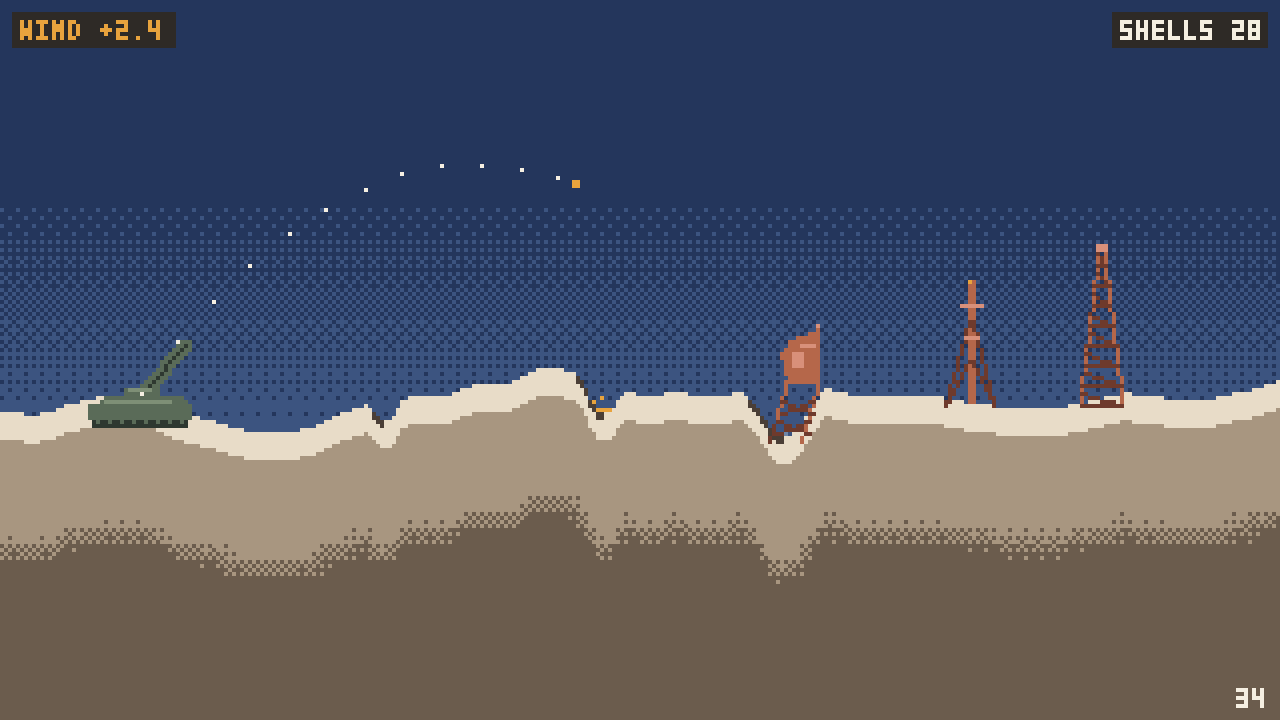
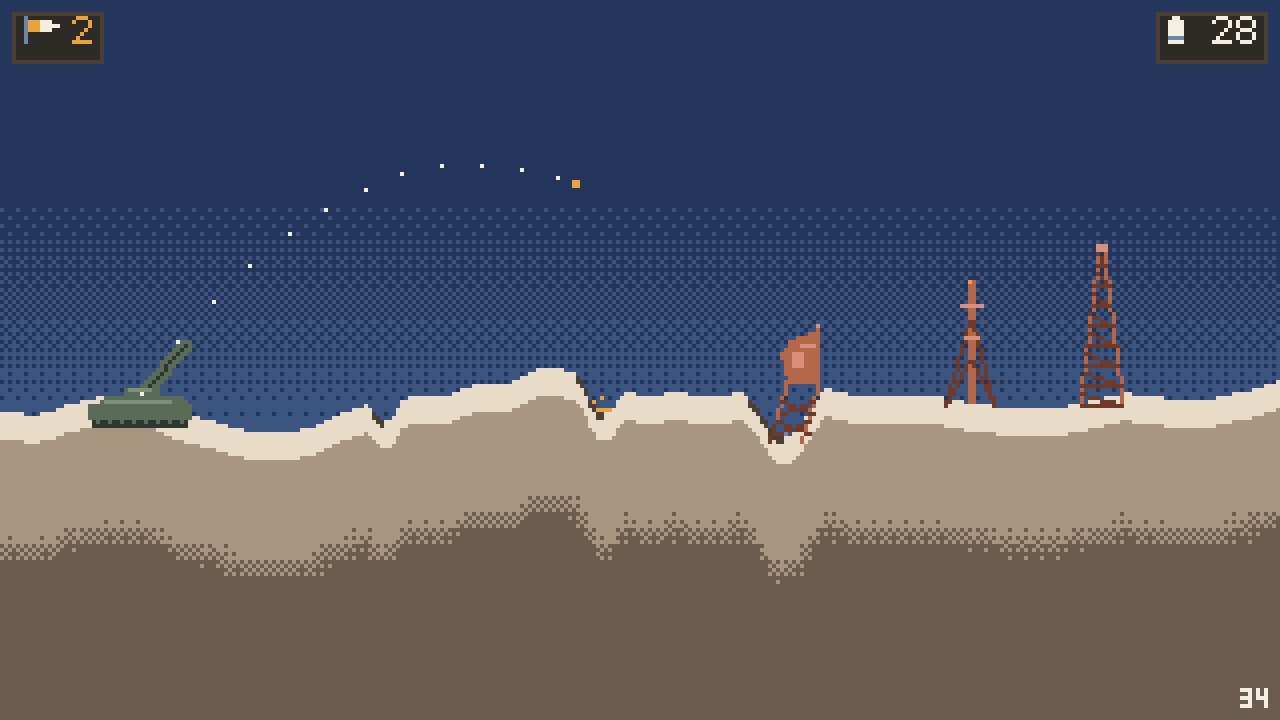
Site: new HUD in the hero images, and per-platform dev build downloads
The hero, shot GIF and scene previews now draw the game's current HUD
(windsock and strength, shell icon and count) instead of the old WIND and
SHELLS text. gen_sprites.py has one hud() that mirrors render_hud, with
the game's 5x7 digits and icons, and build_site.py uses it too.

The landing page gains a Download section with a card per platform:
Android APK, Windows x64 and ARM64, macOS, Linux. Each links straight to
the rolling dev release asset and gives the one-time sideload step for
that platform (unknown apps, SmartScreen, Gatekeeper). A small script
marks the visitor's own platform. The hero's primary button, the nav and
the fine print point at it.

Changed region(s): [[0.0, 0.0, 0.1562, 0.0917], [0.8438, 0.0, 1.0, 0.0917], [0.9688, 0.9472, 1.0, 0.9778]]

diff --git a/site/index.html b/site/index.html
@@ -30,6 +30,7 @@
     <span>SALT&nbsp;LINE</span>
   </a>
   <nav aria-label="Sections">
+    <a href="#download">Download</a>
     <a href="#what">What it is</a>
     <a href="#media">Media</a>
     <a href="#modifiers">Modifiers</a>
@@ -61,13 +62,13 @@
     </ul>
 
     <div class="cta">
-      <a class="btn primary" href="https://github.com/cascadiacollections/saltline">Get the source</a>
-      <a class="btn" href="#build">Build &amp; play</a>
+      <a class="btn primary" href="#download">Download a dev build</a>
+      <a class="btn" href="https://github.com/cascadiacollections/saltline">Get the source</a>
       <a class="btn ghost" href="https://github.com/cascadiacollections/saltline/blob/main/design/DESIGN.md">Read the design doc</a>
     </div>
 
-    <p class="fineprint">Linux · macOS · Windows &nbsp;—&nbsp; builds from source today, packaged
-      builds when the alpha stops moving.</p>
+    <p class="fineprint">Android · Windows · macOS · Linux &nbsp;—&nbsp; rolling dev builds to
+      sideload today, a proper release when the alpha stops moving.</p>
   </div>
 </section>
 
@@ -100,6 +101,51 @@
     <p class="note">This is an <strong>alpha</strong>. Things move, saves are just
       seeds, and the art is honest programmer art awaiting a hand-drawn pass.</p>
   </div>
+</section>
+
+<!-- ------------------------------------------------------------- download -->
+<section id="download" aria-labelledby="dl-h">
+  <h2 id="dl-h">Download a dev build</h2>
+  <p class="small">Rebuilt from <code>main</code> on every merge, so expect the odd rough edge.
+    The builds are unsigned, so each platform will ask you to confirm once.</p>
+  <div class="cards dl">
+    <article class="card" data-platform="android">
+      <h3>Android <span class="arch">arm64</span></h3>
+      <ol>
+        <li>Download the APK on your phone.</li>
+        <li>Open it, and let your browser install unknown apps when asked.</li>
+        <li>It installs over any earlier dev build. Touch controls are built in.</li>
+      </ol>
+      <a class="btn primary" href="https://github.com/cascadiacollections/saltline/releases/download/dev/SaltLine-android-arm64.apk">Download APK</a>
+    </article>
+    <article class="card" data-platform="windows">
+      <h3>Windows <span class="arch">x64 · ARM64</span></h3>
+      <ol>
+        <li>Unzip, then run <code>SaltLine.exe</code> (<code>SaltLine-arm64.exe</code> on ARM).</li>
+        <li>If SmartScreen stops it: <em>More info</em>, then <em>Run anyway</em>.</li>
+      </ol>
+      <a class="btn primary" href="https://github.com/cascadiacollections/saltline/releases/download/dev/SaltLine-windows-x86_64.zip">Download x64</a>
+      <a class="btn" href="https://github.com/cascadiacollections/saltline/releases/download/dev/SaltLine-windows-arm64.zip">Download ARM64</a>
+    </article>
+    <article class="card" data-platform="mac">
+      <h3>macOS <span class="arch">Apple silicon · Intel</span></h3>
+      <ol>
+        <li>Unzip and open <code>SaltLine.app</code>.</li>
+        <li>If Gatekeeper blocks it: <em>System Settings → Privacy &amp; Security → Open Anyway</em>.</li>
+      </ol>
+      <a class="btn primary" href="https://github.com/cascadiacollections/saltline/releases/download/dev/SaltLine-macos.zip">Download for macOS</a>
+    </article>
+    <article class="card" data-platform="linux">
+      <h3>Linux <span class="arch">x86_64</span></h3>
+      <ol>
+        <li>Unzip, then run <code>./SaltLine.x86_64</code>.</li>
+        <li>One self-contained binary. No Godot install needed.</li>
+      </ol>
+      <a class="btn primary" href="https://github.com/cascadiacollections/saltline/releases/download/dev/SaltLine-linux-x86_64.zip">Download for Linux</a>
+    </article>
+  </div>
+  <p class="small">Verify with <a href="https://github.com/cascadiacollections/saltline/releases/download/dev/SHA256SUMS">SHA256SUMS</a> ·
+    <a href="https://github.com/cascadiacollections/saltline/releases/tag/dev">all dev build files</a></p>
 </section>
 
 <!-- ------------------------------------------------------------- what -->
@@ -247,7 +293,7 @@ godot --path .                   # play</code></pre>
     <aside class="reqs panel">
       <h3>System requirements</h3>
       <dl>
-        <dt>OS</dt><dd>Linux, macOS, Windows</dd>
+        <dt>OS</dt><dd>Android, Linux, macOS, Windows</dd>
         <dt>Engine</dt><dd>Godot 4 (presentation only)</dd>
         <dt>Toolchain</dt><dd>Rust, stable</dd>
         <dt>Internal res</dt><dd>320×180, integer-scaled</dd>

diff --git a/site/style.css b/site/style.css
@@ -344,3 +344,13 @@ footer nav { display: grid; gap: .4rem; font-size: .88rem; }
   .hero-copy { margin-top: -3rem; }
   .keys th { width: 7.5rem; }
 }
+
+/* Download cards: steps, buttons along the bottom, the visitor's own platform lit. */
+.dl .card { display: flex; flex-direction: column; }
+.dl .card ol { margin: 0 0 1rem; padding-left: 1.2rem; flex: 1; }
+.dl .card li { margin: .3rem 0; }
+.dl .card .btn { margin: .3rem .4rem 0 0; align-self: flex-start; }
+.dl .arch { color: var(--rock); font-size: .8rem; margin-left: .3rem; }
+.dl .card.yours { border-color: var(--alert); }
+.dl .card.yours h3::after { content: "this device"; color: var(--alert); font-size: .72rem; margin-left: .5rem; }
+.dl .card li code { display: inline; margin: 0; padding: .05rem .3rem; border-left: 0; }

diff --git a/site/main.js b/site/main.js
@@ -23,6 +23,17 @@
     });
   });
 
+  // ----------------------------------------------- your platform's build
+  // A hint only: every download stays one click away whatever this guesses.
+  const ua = navigator.userAgent;
+  const platform = /Android/i.test(ua) ? "android"
+    : /Windows/i.test(ua) ? "windows"
+    // iPadOS reports itself as a Mac; a touchscreen gives it away.
+    : /Macintosh/i.test(ua) && navigator.maxTouchPoints < 2 ? "mac"
+    : /Linux/i.test(ua) ? "linux"
+    : null;
+  document.querySelector(`.dl [data-platform="${platform}"]`)?.classList.add("yours");
+
   // ------------------------------------------------------------ scrollspy
   const links = [...document.querySelectorAll('.topbar nav a[href^="#"]')];
   const targets = links

diff --git a/tools/gen_sprites.py b/tools/gen_sprites.py
@@ -141,6 +141,84 @@ def text(buf, s, x, y, c):
     return cx
 
 
+
+# The game's 5x7 digits and HUD icons (crates/salt-line-godot/src/font.rs,
+# icons.rs), so the site's HUD matches the game pixel for pixel.
+BIG = {
+    "0": "01110 10001 10001 10001 10001 10001 01110",
+    "1": "00100 01100 00100 00100 00100 00100 01110",
+    "2": "01110 10001 00001 00010 00100 01000 11111",
+    "3": "11111 00010 00100 00010 00001 10001 01110",
+    "4": "00010 00110 01010 10010 11111 00010 00010",
+    "5": "11111 10000 11110 00001 00001 10001 01110",
+    "6": "00110 01000 10000 11110 10001 10001 01110",
+    "7": "11111 00001 00010 00100 01000 01000 01000",
+    "8": "01110 10001 10001 01110 10001 10001 01110",
+    "9": "01110 10001 10001 01111 00001 00010 01100",
+    "-": "00000 00000 00000 11111 00000 00000 00000",
+    ".": "00000 00000 00000 00000 00000 01100 01100",
+}
+ICON_SHELL = ".11. 1111 1111 1111 1111 3333 1111".split()
+ICON_SOCK = ("3........ 3222111.. 322211111 3222111.. "
+             "3........ 3........ 3........").split()
+ICON_SOCK_LIMP = ("3........ 32....... 322...... 321...... "
+                  "321...... 31....... 3........").split()
+
+
+def text_big(buf, s, x, y, c):
+    for k, ch in enumerate(s):
+        for j, row in enumerate(BIG[ch].split()):
+            for i, bit in enumerate(row):
+                if bit == "1":
+                    buf.set(x + k * 6 + i, y + j, c)
+
+
+def big_width(s):
+    return len(s) * 6 - 1 if s else 0
+
+
+def icon(buf, rows, x, y, colors, flip=False):
+    w = len(rows[0])
+    for j, row in enumerate(rows):
+        for i, ch in enumerate(row):
+            if ch != ".":
+                buf.set(x + (w - 1 - i if flip else i), y + j, colors[int(ch) - 1])
+
+
+def plate(buf, x, y, w, h):
+    buf.rect(x, y, w, h, rgba("ui_bg"))
+    for i in range(w):
+        buf.set(x + i, y, rgba("shadow"))
+        buf.set(x + i, y + h - 1, rgba("shadow"))
+    for j in range(h):
+        buf.set(x, y + j, rgba("shadow"))
+        buf.set(x + w - 1, y + j, rgba("shadow"))
+
+
+def hud(buf, width, height, wind, shells, screen):
+    """The in-game HUD: windsock and strength top left, shell count top right,
+    screen index bottom right. Mirrors `render_hud` in game.rs."""
+    fg, alert, dim = rgba("ui_fg"), rgba("alert"), rgba("sky_lo")
+    wt = "--" if wind is None else f"{abs(wind):.0f}"
+    calm = not any(c in "123456789" for c in wt)
+    sock = ICON_SOCK_LIMP if calm else ICON_SOCK
+    sw = len(sock[0])
+    plate(buf, 3, 3, sw + 9 + big_width(wt), 13)
+    icon(buf, sock, 6, 4, (fg, alert, dim), flip=(not calm and wind < 0))
+    text_big(buf, wt, 6 + sw + 3, 4, alert)
+
+    st = str(shells)
+    iw = len(ICON_SHELL[0])
+    pw = iw + 13 + big_width(st)
+    px = width - pw - 3
+    plate(buf, px, 3, pw, 13)
+    icon(buf, ICON_SHELL, px + 3, 4, (fg, alert, dim))
+    text(buf, "X", px + 3 + iw + 2, 6, dim)
+    text_big(buf, st, px + 3 + iw + 7, 4, alert if shells < 10 else fg)
+
+    text(buf, screen, width - len(screen) * 4 - 2, height - 8, fg)
+
+
 # ---------------------------------------------------------------- noise
 def h1(n, seed):
     n = (n ^ seed) & 0xFFFFFFFF
@@ -498,11 +576,7 @@ def scene(width=320, height=180, seed=20260907):
     b.set(cm, int(hs[cm]) - 4, rgba("alert"))
 
     # UI, same buffer, same resolution (§5.1)
-    b.rect(3, 3, 41, 9, rgba("ui_bg"))
-    text(b, "WIND +2.4", 5, 5, rgba("alert"))
-    b.rect(width - 42, 3, 39, 9, rgba("ui_bg"))
-    text(b, "SHELLS 28", width - 40, 5, rgba("ui_fg"))
-    text(b, "34", width - 11, height - 8, rgba("ui_fg"))
+    hud(b, width, height, 2.4, 28, "34")
     return b
 
 

diff --git a/tools/build_site.py b/tools/build_site.py
@@ -30,7 +30,7 @@ sys.path.insert(0, os.path.dirname(os.path.abspath(__file__)))
 from PIL import Image
 
 import gen_sprites as G
-from gen_sprites import BAYER, Buf, rgba, text
+from gen_sprites import BAYER, Buf, hud, rgba, text
 
 ROOT = os.path.dirname(os.path.dirname(os.path.abspath(__file__)))
 ART = os.path.join(ROOT, "art")
@@ -138,14 +138,6 @@ def with_barrel(b, tank_xy, pivot, angle_deg):
     bar, bp = G.barrel(angle_deg)
     b.blit(bar, px + pivot[0] - bp[0], py + pivot[1] - bp[1])
     b.blit(tk, px, py)
-
-
-def hud(b, width, height, wind, shells, screen):
-    b.rect(3, 3, 41, 9, rgba("ui_bg"))
-    text(b, wind, 5, 5, rgba("alert"))
-    b.rect(width - 42, 3, 39, 9, rgba("ui_bg"))
-    text(b, shells, width - 40, 5, rgba("ui_fg"))
-    text(b, screen, width - 11, height - 8, rgba("ui_fg"))
 
 
 # ---------------------------------------------------------------- ballistics
@@ -267,7 +259,7 @@ def hero_wide(scale=2):
     _, path, hit, ang, _ = shot
     with_barrel(b, tank_xy, pivot, ang)
     tracer(b, path, hit)
-    hud(b, width, height, "WIND +4.0", "SHELLS 31", "27")
+    hud(b, width, height, 4.0, 31, "27")
     return b.image(scale)
 
 
@@ -289,7 +281,7 @@ def shot_gif(scale=2, path_out=None):
     err = abs(hit[0] - target)
 
     with_barrel(b, tank_xy, pivot, ang)
-    hud(b, width, height, "WIND +3.2", "SHELLS 28", "34")
+    hud(b, width, height, 3.2, 28, "34")
     base = b.image(1)
 
     # after: the same screen after the sim applies the impact, tower down
@@ -302,7 +294,7 @@ def shot_gif(scale=2, path_out=None):
         terrain_heights=after_hs,
     )
     with_barrel(ab, atank, apivot, ang)
-    hud(ab, width, height, "WIND +3.2", "SHELLS 27", "34")
+    hud(ab, width, height, 3.2, 27, "34")
     after = ab.image(1)
 
     fg = tuple(G.P["ui_fg"]) + (255,)
